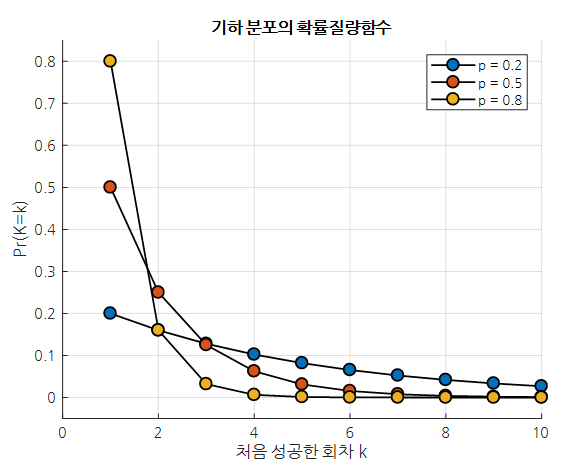
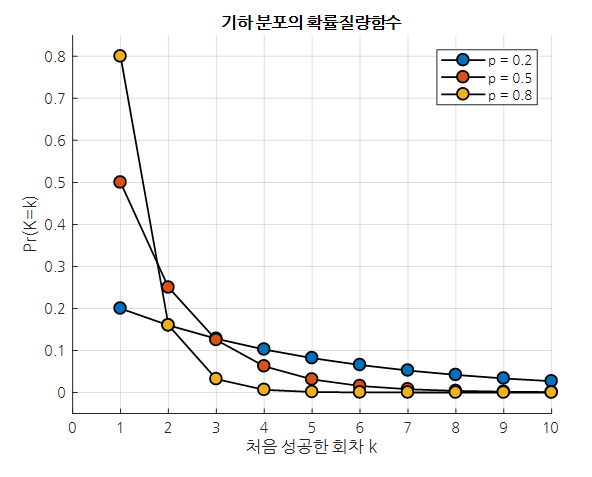
-

diff --git a/_posts/2021-04-28-geometric_distribution.md b/_posts/2021-04-28-geometric_distribution.md
@@ -42,4 +42,19 @@ $$P(K=k) = (1-p)^{k-1}p$$
 
 # 기하 분포의 형태
 
+<p align = "center">
+  <img src = "https://raw.githubusercontent.com/angeloyeo/angeloyeo.github.io/master/pics/2021-04-28-geometric_distribution/pic1.png">
+  <br>
+  그림 1. 다양한 p 값에 대한 기하 분포의 형태
+</p>
+
+기하 분포에서 보여주는 것은 성공 확률이 $p$일 때 $k$ 번째 처음으로 성공할 수 있는 확률을 의미한다.
+
+예를 들어 그림 1에서 p = 0.8인 경우에 대해 첫 번째 시도에서 성공할 확률은 0.8이고, 두 번째 시도에서 성공할 확률은 한번 실패한 뒤 성공해야 하므로 0.2  * 0.8 = 0.16이다.
+
+또, 세 번째 시도에서 성공할 확률은 0.2 * 0.2 * 0.8 = 0.032와 같다.
+
+여기서 알 수 있는 것은 $p$ 값이 클 수록 $k=1$에서의 성공확률값도 당연히 크다는 것이다.
+
+한가지 위로가 되는 점은 $p$ 값이 크지 않은 경우 여러번 시도했을 때 $p$값이 큰 경우보다 더 높은 확률로 첫 성공을 달성할 수 있다는 것이다.
 
